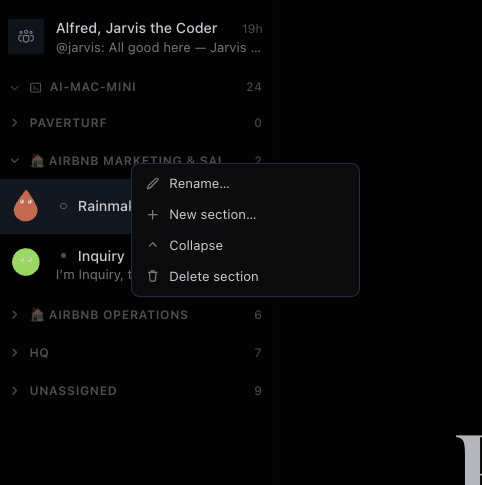
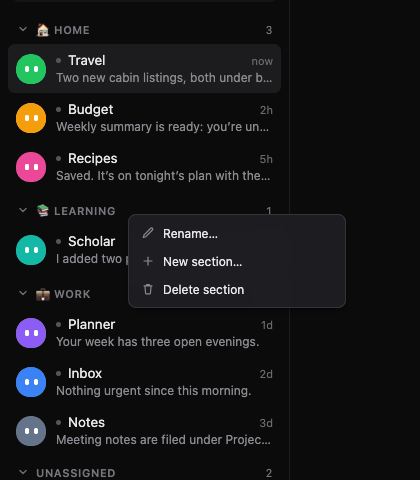
Privacy sweep: demo values everywhere, a whole-repo guard, invented pictures
- Replace the remaining private details in tracked text: a real bot name in
  the Bot Sections notes and tests (now "Planner"), a business section name
  (now "Home Projects"), a person's name in the Computer control spec, real
  email domains in two tests, and the bot-name model in the preview harness
  (now demo-large / demo-small).
- tests/privacy-guard.test.mjs scans every tracked text file (about half a
  second): hashed private words and phrases, Tailscale addresses outside the
  documented 100.64.0.x examples, home folders other than placeholders, and
  email addresses outside reserved example domains. CI runs it.
- Bot Sections and Computer pictures now show invented content: a mock
  Hermes window driven by the real Bot Sections plugin and its CSS, and a
  demo desktop in the Computer pane.
- Preview harness: a cards demo chat (a clarify question card and a live
  approval card), hero pages with Slack connected, and the Add to Slack
  sheet with a demo workspace.

diff --git a/grokbot-override/dev/preview-entry.tsx b/grokbot-override/dev/preview-entry.tsx
@@ -11,7 +11,7 @@ import { RosterPane } from '../src/ui/Roster'
 import { CSS } from '../src/ui/styles'
 import { rowKey } from '../src/core/roster.js'
 import { overrideChromeCss } from '../src/core/stock.js'
-import { CARD_ITEMS, CARD_MULTI_WAITING, CARD_SETTLED_ITEMS, CARD_WAITING, CHAT_ITEMS, DIRECTIVE_FILES, DIRECTIVE_ITEMS, LIVE_APPROVAL_FILES, LIVE_APPROVAL_ITEMS, LIVE_APPROVAL_SETTLED_FILES, LIVE_APPROVAL_SETTLED_ITEMS, LIVE_EMAIL_ITEMS, LIVE_TASK_FILES, LIVE_TASK_ITEMS, MD_ITEMS, NEW_ITEMS, NEW_ITEMS_FIRST_UNREAD, ROSTER, SHORT_ITEMS, USER_ITEMS } from './fixtures'
+import { CARDS_DEMO_FILES, CARDS_DEMO_ITEMS, CARD_ITEMS, CARD_MULTI_WAITING, CARD_SETTLED_ITEMS, CARD_WAITING, CHAT_ITEMS, DIRECTIVE_FILES, DIRECTIVE_ITEMS, LIVE_APPROVAL_FILES, LIVE_APPROVAL_ITEMS, LIVE_APPROVAL_SETTLED_FILES, LIVE_APPROVAL_SETTLED_ITEMS, LIVE_EMAIL_ITEMS, LIVE_TASK_FILES, LIVE_TASK_ITEMS, MD_ITEMS, NEW_ITEMS, NEW_ITEMS_FIRST_UNREAD, ROSTER, SHORT_ITEMS, USER_ITEMS } from './fixtures'
 import { BOT_SWATCHES } from '../src/core/colors.js'
 import { ShapeFace } from '../src/ui/Avatar'
 import { AVATAR_SHAPES, avatarShapeFor } from '../src/ui/avatarShapes'
@@ -170,8 +170,8 @@ export function render({
   slack.hidden.set(slackOption?.hidden ? [rowKey(bot)] : [])
   roster2.dialog.set(dialog ? { ...dialog, bot } : null)
   // The panel's Model row and its picker: an invented demo model.
-  primeBotModel(bot, { provider: 'example', model: 'atlas-large' })
-  primeModelOptions(bot, { providers: [{ slug: 'example', name: 'Example', models: ['atlas-large', 'atlas-small'], authenticated: true }] })
+  primeBotModel(bot, { provider: 'example', model: 'demo-large' })
+  primeModelOptions(bot, { providers: [{ slug: 'example', name: 'Example', models: ['demo-large', 'demo-small'], authenticated: true }] })
   roster2.newLine.set({ markers: newLine ? { [rowKey(bot)]: newLine } : {}, seen: {} })
   app.selectedKey.set(selected ? rowKey(bot) : '')
   app.panelOpen.set(panelOpen)
@@ -242,13 +242,13 @@ export function render({
       panes
     )
   )
-  const connectSheet = connectPreview ? renderToStaticMarkup(<SlackConnect bot={bot} name={bot.display_name} initial={{workspaces: [{team_id:'T1', team_name:'Example Workspace'}], status: {phase:connectPreview, mode:'http', team_name:'Example Workspace'}}} onClose={() => {}} />) : ''
+  const connectSheet = connectPreview ? renderToStaticMarkup(<SlackConnect bot={bot} name={bot.display_name} initial={{workspaces: [{team_id:'T1', team_name:'Acme Team'}], status: {phase:connectPreview, mode:'http', team_name:'Acme Team'}}} onClose={() => {}} />) : ''
   const host = hostCss ? `<link rel="stylesheet" href="${hostCss}">` : ''
   // A live frame is the override switched on: its window-chrome style too.
   const chrome = frame?.lights ? `\n${overrideChromeCss()}` : ''
   return `<!doctype html><html class="${theme === 'dark' ? 'dark' : ''}"><head><meta charset="utf-8">${host}<style>${CSS}\n${PAGE_CSS}${chrome}</style></head><body>${body}${connectSheet}</body></html>`
 }
-export { CARD_ITEMS, CARD_MULTI_WAITING, CARD_SETTLED_ITEMS, CARD_WAITING, CSS, DIRECTIVE_FILES, DIRECTIVE_ITEMS, LIVE_APPROVAL_FILES, LIVE_APPROVAL_ITEMS, LIVE_APPROVAL_SETTLED_FILES, LIVE_APPROVAL_SETTLED_ITEMS, LIVE_EMAIL_ITEMS, LIVE_TASK_FILES, LIVE_TASK_ITEMS, MD_ITEMS, NEW_ITEMS, NEW_ITEMS_FIRST_UNREAD, SHORT_ITEMS, USER_ITEMS }
+export { CARDS_DEMO_FILES, CARDS_DEMO_ITEMS, CARD_ITEMS, CARD_MULTI_WAITING, CARD_SETTLED_ITEMS, CARD_WAITING, CSS, DIRECTIVE_FILES, DIRECTIVE_ITEMS, LIVE_APPROVAL_FILES, LIVE_APPROVAL_ITEMS, LIVE_APPROVAL_SETTLED_FILES, LIVE_APPROVAL_SETTLED_ITEMS, LIVE_EMAIL_ITEMS, LIVE_TASK_FILES, LIVE_TASK_ITEMS, MD_ITEMS, NEW_ITEMS, NEW_ITEMS_FIRST_UNREAD, SHORT_ITEMS, USER_ITEMS }
 
 // Test seams (review r2): the real app module and UI pieces, on the fake SDK.
 export * as appApi from '../src/ui/app'

diff --git a/grokbot-override/dev/fixtures.ts b/grokbot-override/dev/fixtures.ts
@@ -185,3 +185,27 @@ export const LIVE_EMAIL_ITEMS = [
   DIRECTIVE_ITEMS[0],
   { kind: 'assistant', id: 'd-a1', text: 'Drafted it. Nothing goes out until you say so.\n\n::card{id="c-7f3a" kind="draft-email" file="cards/c-7f3a.json"}', at: night + 30_000 }
 ]
+
+/** The README's cards picture: a question card the bot asked with the
+ *  built-in clarify tool (answered), then a live approval card waiting for
+ *  the go-ahead. Demo content. */
+export const CARDS_DEMO_ITEMS = [
+  { kind: 'user', id: 'q-u1', text: 'can you book the lake cabin for one night?', at: night },
+  { kind: 'clarify', id: 'clarify:q-c1', requestId: 'q-c1', questions: [{ qid: 'night', question: 'Which night works?', choices: ['Thursday', 'Friday', 'Saturday'], multiSelect: false }], answers: { night: 'Friday' }, status: 'answered', at: night + 20_000 },
+  { kind: 'assistant', id: 'q-a1', text: 'Friday it is. Nothing is booked until you say so.\n\n::card{id="c-9b" kind="approval" file="cards/c-9b.json"}', at: night + 40_000 }
+]
+export const CARDS_DEMO_FILES: Record<string, any> = {
+  'cards/c-9b.json': {
+    text: JSON.stringify({
+      schema: 'card.v1',
+      kind: 'approval',
+      title: 'Book the lake cabin',
+      status: { state: 'awaiting-approval' },
+      body: [{ type: 'kv', rows: [['Night', 'Friday'], ['Guests', '2'], ['Total', '$180, free cancellation']] }],
+      actions: [
+        { label: 'Book it', style: 'primary', send: 'APPROVE c-9b book the cabin' },
+        { label: 'Not yet', send: 'HOLD c-9b' }
+      ]
+    })
+  }
+}

diff --git a/bot-sections/plugin.js b/bot-sections/plugin.js
@@ -523,7 +523,7 @@ function setOrder(el, n) {
   if (el.style.order !== next) el.style.order = next
 }
 
-// Display names: rename any section (emoji welcome — "🏠 Airbnb Operations").
+// Display names: rename any section (emoji welcome — "🏠 Home Projects").
 // Section IDS stay stable (config keys, cycle commands); only the label
 // shown on the header changes. Persisted per install.
 let sectionNames = {}

diff --git a/computer-viewer/docs/SPEC-CONTROL.md b/computer-viewer/docs/SPEC-CONTROL.md
@@ -174,7 +174,7 @@ Port Korgo's `_ComputerRunLock` (flock on `$TMPDIR/hermes-orgo-agent-<computer_i
 1. Plugin-tool approval gating (§4.2) — fallback: `pre_tool_call` hook, else documented trust caveat.
 2. Multiplex profile-scoping of `ctx.get_config`/`set_config` (§4.3) — fallback: `ctx.state` pin storage.
 3. Host-side tool-loop/gateway timeout vs the 900s CUA default (§4.1) — if the host caps earlier, lower `timeout_seconds` default to that cap and document.
-4. The computer-use `/v1/chat/completions` acceptance of `computer_id` on Thomas's plan — 402/403 mapping already covers rejection.
+4. The computer-use `/v1/chat/completions` acceptance of `computer_id` on the account's plan — 402/403 mapping already covers rejection.
 
 ---
 

diff --git a/README.md b/README.md
@@ -42,7 +42,7 @@ Desktop plugins plus an optional agent plugin, one install:
 <p align="center">
   <img src="bot-sections/screenshots/roster-sections.png" alt="Hermes Desktop with Bot Sections in the roster and the Computer pane docked" width="900">
 </p>
-<p align="center"><em>The kit in one screen: iMessage-style Bot Chat, named roster sections, and the live Computer pane.</em></p>
+<p align="center"><em>The kit in one screen: iMessage-style Bot Chat, named roster sections, and the live Computer pane (demo bots and a demo desktop).</em></p>
 
 
 ## Install

diff --git a/bot-sections/CHANGELOG.md b/bot-sections/CHANGELOG.md
@@ -148,7 +148,7 @@
 - Click a section header to collapse/expand it (persisted per install;
   caret rotates).
 - Double-click a header to rename it in place — emoji welcome
-  ("🏠 Airbnb Operations"). Section IDs (config keys, cycle commands) stay
+  ("🏠 Home Projects"). Section IDs (config keys, cycle commands) stay
   stable; only the displayed label changes. Enter commits, Escape cancels.
 
 

diff --git a/bot-sections/docs/BUILD-NOTES.md b/bot-sections/docs/BUILD-NOTES.md
@@ -101,7 +101,7 @@ const rowTooltip = [displayName(bot, meta), `@${handle}`, gatewayLabel, sourceSt
   .join(' · ')
 ```
 
-Example: `Pricing · @pricing · This device · Available`.
+Example: `Planner · @planner · This device · Available`.
 
 `botHandle` (`data.ts`): profile name, except the primary profile `'default'`
 surfaces as `'hermes'`. `displayName` (`labels.ts`) is the title /

diff --git a/REPORT-BOT-SECTIONS.md b/REPORT-BOT-SECTIONS.md
@@ -62,7 +62,7 @@ const row = (
     )}
 ```
 
-Expected live string: `Pricing · @pricing · This device · Available`.
+Expected live string: `Planner · @planner · This device · Available`.
 
 Handle matcher: `/·\s*@[A-Za-z0-9]/`. Group rows use `"${group}, ${n} bots, …"` — no `· @handle`. Native `RosterSectionHeader` is a `RowButton` without the context-menu trigger.
 
